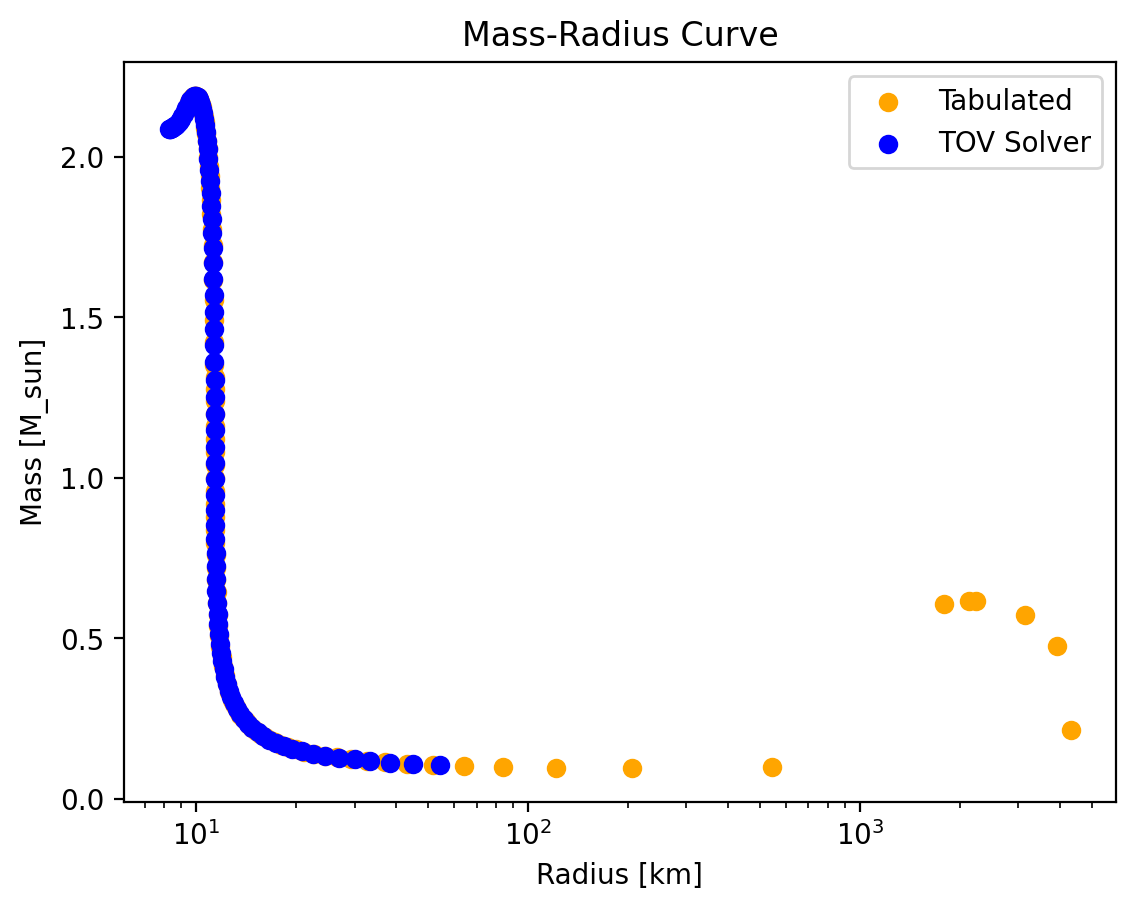
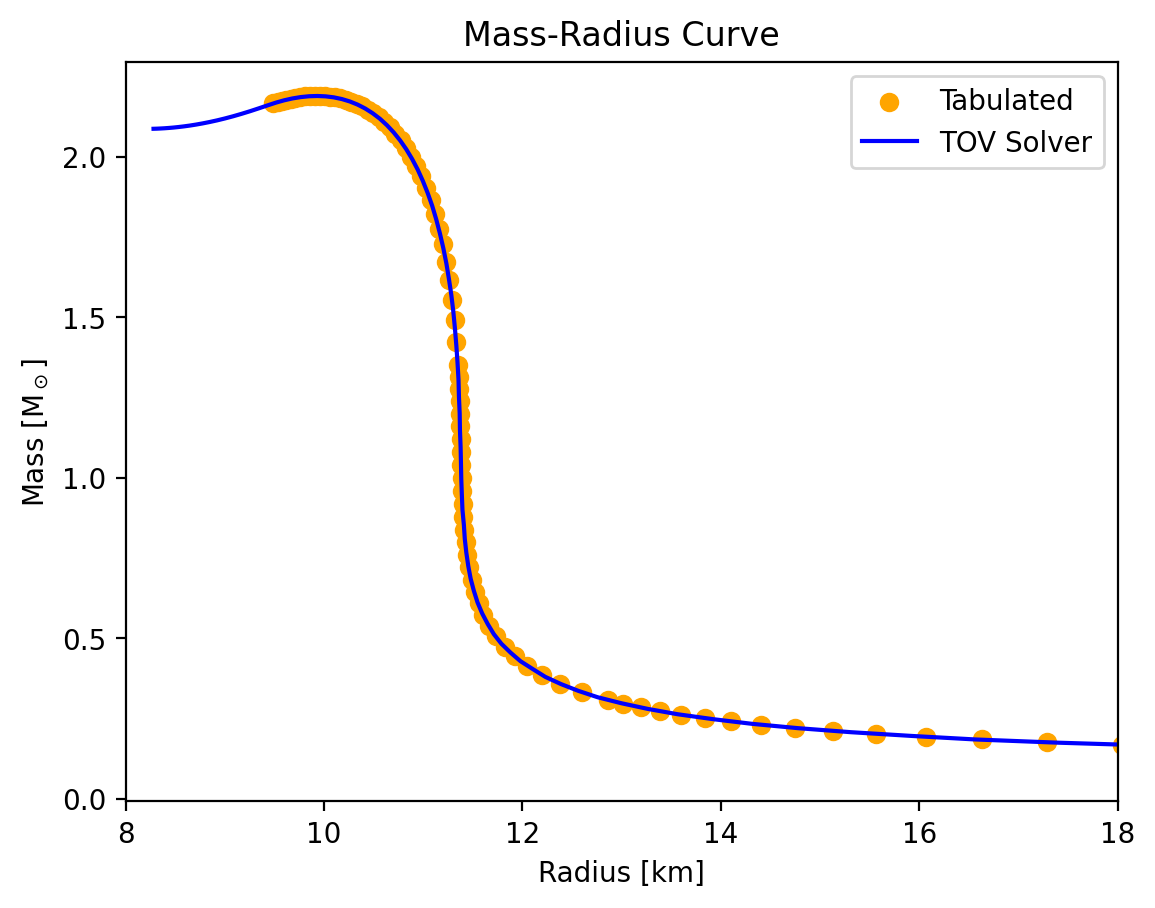
added some figures

diff --git a/src/ui/eos_tab.py b/src/ui/eos_tab.py
@@ -155,7 +155,7 @@ def draw_tabulated_eos_plot():
         ax.scatter(
             tabulated_densities,
             tabulated_pressures,
-            color="blue",
+            color="orange",
             label="Tabulated EoS",
         )
         log_interpolator = LogarithmicInterpolator(
@@ -165,7 +165,7 @@ def draw_tabulated_eos_plot():
         x_max = max(tabulated_densities)
         x_values = np.geomspace(x_min, x_max, num=100)
         y_values = log_interpolator.get_y(x_values)
-        ax.plot(x_values, y_values, color="red", label="Interpolated")
+        ax.plot(x_values, y_values, color="blue", label="Interpolated")
         ax.legend()
     _, plot_col, _ = st.columns(UiConstants.CENTERED_WITH_MARGINS_SPEC)
     with plot_col:
@@ -205,11 +205,13 @@ def draw_mass_radius_curve(
     fig, ax = plt.subplots()
     ax.set_title("Mass-Radius Curve")
     ax.set_xlabel("Radius [km]")
-    ax.set_xscale("log")
-    ax.set_ylabel("Mass [M_sun]")
+    # ax.set_xscale("log")
+    ax.set_ylabel(r"Mass [M$_\odot$]")
     if tabulated_radii is not None and tabulated_masses is not None:
         ax.scatter(tabulated_radii, tabulated_masses, color="orange", label="Tabulated")
-    ax.scatter(radii, masses, color="blue", label="TOV Solver")
+    ax.plot(radii, masses, color="blue", label="TOV Solver")
+    # TODO: Add radius-limiting slider.
+    ax.set_xlim(8, 18)
     ax.legend()
     _, plot_col, _ = st.columns(UiConstants.CENTERED_WITH_MARGINS_SPEC)
     with plot_col:
